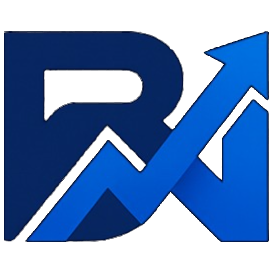
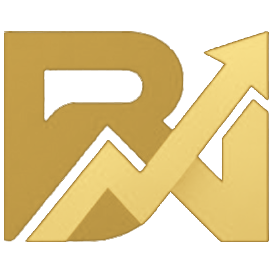
color changes

diff --git a/src/pages/auth/Login/Login.scss b/src/pages/auth/Login/Login.scss
@@ -75,7 +75,10 @@ body.login-no-scroll {
     justify-content: flex-end;
     padding: 2.5rem;
     overflow: hidden;
-    background: linear-gradient(155deg, #1e1b4b 0%, #312e81 42%, #0f766e 100%);
+    background:
+        radial-gradient(100% 70% at 10% 15%, rgba(201, 162, 75, 0.22), transparent 55%),
+        radial-gradient(90% 60% at 90% 85%, rgba(156, 122, 48, 0.16), transparent 50%),
+        linear-gradient(155deg, #141416 0%, #1f1f23 40%, #2a2213 100%);
     color: #fff;
 }
 
@@ -97,8 +100,8 @@ body.login-no-scroll {
         height: 140px;
         left: 8%;
         top: 12%;
-        background: radial-gradient(circle at 30% 28%, #fbcfe8, #db2777 70%);
-        box-shadow: 16px 20px 0 rgba(0, 0, 0, 0.18);
+        background: radial-gradient(circle at 30% 28%, #fef3c7, #c9a24b 70%);
+        box-shadow: 16px 20px 0 rgba(0, 0, 0, 0.28);
     }
 
     &--gold {
@@ -106,8 +109,8 @@ body.login-no-scroll {
         height: 88px;
         right: 14%;
         top: 18%;
-        background: radial-gradient(circle at 30% 28%, #fde68a, #f59e0b 70%);
-        box-shadow: 12px 14px 0 rgba(0, 0, 0, 0.16);
+        background: radial-gradient(circle at 30% 28%, #fef08a, #dec27a 50%, #9c7a30 85%);
+        box-shadow: 12px 14px 0 rgba(0, 0, 0, 0.24);
         animation-delay: -2s;
     }
 
@@ -116,8 +119,8 @@ body.login-no-scroll {
         height: 160px;
         right: -20px;
         bottom: 18%;
-        background: radial-gradient(circle at 30% 28%, #a5f3fc, #0891b2 70%);
-        box-shadow: 18px 22px 0 rgba(0, 0, 0, 0.16);
+        background: radial-gradient(circle at 30% 28%, #fbf8ef, #dec27a 60%, #7d6127 100%);
+        box-shadow: 18px 22px 0 rgba(0, 0, 0, 0.3);
         animation-delay: -3.5s;
     }
 
@@ -126,8 +129,8 @@ body.login-no-scroll {
         height: 70px;
         left: 18%;
         bottom: 28%;
-        background: radial-gradient(circle at 30% 28%, #ddd6fe, #7c3aed 70%);
-        box-shadow: 10px 12px 0 rgba(0, 0, 0, 0.16);
+        background: radial-gradient(circle at 30% 28%, #f5edd5, #b48a35 70%);
+        box-shadow: 10px 12px 0 rgba(0, 0, 0, 0.22);
         animation-delay: -1s;
     }
 }
@@ -150,11 +153,12 @@ body.login-no-scroll {
     height: 130px;
     margin: 0 auto;
     border-radius: 28px;
-    background: linear-gradient(160deg, #334155, #0f172a 60%);
-    border: 4px solid #1e293b;
+    background: linear-gradient(160deg, #2c2925, #141416 60%);
+    border: 4px solid rgba(201, 162, 75, 0.4);
     box-shadow:
-        18px 22px 0 rgba(15, 23, 42, 0.35),
-        inset 0 2px 0 rgba(255, 255, 255, 0.18);
+        18px 22px 0 rgba(0, 0, 0, 0.45),
+        inset 0 2px 0 rgba(254, 240, 138, 0.35),
+        0 0 28px rgba(201, 162, 75, 0.18);
     transform: translateZ(40px);
 }
 
@@ -171,15 +175,15 @@ body.login-no-scroll {
     width: 42px;
     height: 22px;
     border-radius: 8px;
-    background: linear-gradient(180deg, #f8fafc, #cbd5e1);
-    box-shadow: 0 4px 0 #64748b;
+    background: linear-gradient(180deg, #fef9c3, #dec27a);
+    box-shadow: 0 4px 0 #7d6127;
 }
 
 .cam-hotshoe {
     width: 36px;
     height: 14px;
     border-radius: 6px;
-    background: #475569;
+    background: #45403a;
 }
 
 .cam-face {
@@ -195,21 +199,21 @@ body.login-no-scroll {
     width: 86px;
     height: 86px;
     border-radius: 50%;
-    background: #020617;
+    background: #0d0c0a;
     box-shadow:
-        inset 0 0 0 6px #1e293b,
-        0 8px 0 rgba(0, 0, 0, 0.25);
+        inset 0 0 0 6px rgba(201, 162, 75, 0.45),
+        0 8px 0 rgba(0, 0, 0, 0.35);
 }
 
 .lens-ring {
     position: absolute;
     inset: 10px;
     border-radius: 50%;
-    border: 2px solid rgba(148, 163, 184, 0.45);
+    border: 2px solid rgba(222, 194, 122, 0.55);
 
     &--mid {
         inset: 20px;
-        border-color: rgba(45, 212, 191, 0.55);
+        border-color: rgba(201, 162, 75, 0.85);
         animation: lens-spin 10s linear infinite;
     }
 }
@@ -218,8 +222,8 @@ body.login-no-scroll {
     position: absolute;
     inset: 28px;
     border-radius: 50%;
-    background: radial-gradient(circle at 35% 30%, #67e8f9, #0e7490 55%, #042f2e);
-    box-shadow: inset 0 0 12px rgba(0, 0, 0, 0.45);
+    background: radial-gradient(circle at 35% 30%, #fef08a, #c9a24b 55%, #3a2e12);
+    box-shadow: inset 0 0 12px rgba(0, 0, 0, 0.6);
 }
 
 .cam-grip {
@@ -227,8 +231,9 @@ body.login-no-scroll {
     width: 46px;
     height: 70px;
     border-radius: 14px;
-    background: linear-gradient(180deg, #475569, #1e293b);
-    box-shadow: inset 0 1px 0 rgba(255, 255, 255, 0.15);
+    background: linear-gradient(180deg, #38342f, #1c1b19);
+    border: 1px solid rgba(201, 162, 75, 0.25);
+    box-shadow: inset 0 1px 0 rgba(254, 240, 138, 0.2);
 }
 
 .cam-shadow {
@@ -238,7 +243,7 @@ body.login-no-scroll {
     bottom: -8px;
     height: 22px;
     border-radius: 50%;
-    background: rgba(0, 0, 0, 0.28);
+    background: rgba(0, 0, 0, 0.38);
     filter: blur(10px);
 }
 
@@ -248,15 +253,15 @@ body.login-no-scroll {
     padding: 8px 8px 18px;
     border-radius: 8px;
     background: #fff;
-    box-shadow: 10px 14px 0 rgba(0, 0, 0, 0.18);
+    box-shadow: 10px 14px 0 rgba(0, 0, 0, 0.22);
 
     &__photo {
         height: 68px;
         border-radius: 4px;
-        background: linear-gradient(135deg, #fb7185, #f59e0b);
+        background: linear-gradient(135deg, #dec27a, #9c7a30);
 
         &--alt {
-            background: linear-gradient(135deg, #34d399, #38bdf8);
+            background: linear-gradient(135deg, #fef08a, #c9a24b);
         }
     }
 
@@ -293,7 +298,7 @@ body.login-no-scroll {
     font-weight: 800;
     letter-spacing: 0.18em;
     text-transform: uppercase;
-    color: #5eead4;
+    color: #dec27a;
 }
 
 .split-login__headline {
@@ -354,21 +359,21 @@ body.login-no-scroll {
     font-weight: 700;
     letter-spacing: 0.16em;
     text-transform: uppercase;
-    color: #0d9488;
+    color: #c9a24b;
 }
 
 .split-login__welcome {
     margin: 0 0 0.35rem;
     font-size: 1.65rem;
     font-weight: 800;
-    color: #0f172a;
+    color: #1c1b19;
     letter-spacing: -0.03em;
 }
 
 .split-login__hint {
     margin: 0 0 1.35rem;
     font-size: 0.92rem;
-    color: #64748b;
+    color: #7a7366;
 }
 
 .split-login__error {
@@ -398,7 +403,7 @@ body.login-no-scroll {
     font-weight: 700;
     letter-spacing: 0.08em;
     text-transform: uppercase;
-    color: #475569;
+    color: #5c564b;
 }
 
 .split-login__input-wrap {
@@ -411,7 +416,7 @@ body.login-no-scroll {
     left: 0.9rem;
     transform: translateY(-50%);
     pointer-events: none;
-    color: #0d9488;
+    color: #c9a24b;
 }
 
 .split-login__input {
@@ -420,9 +425,9 @@ body.login-no-scroll {
     padding: 0.85rem 0.9rem 0.85rem 2.55rem;
     font-size: 0.95rem;
     font-weight: 600;
-    color: #0f172a;
-    background: #f8fafc;
-    border: 1.5px solid #e2e8f0;
+    color: #1c1b19;
+    background: #fdfcf9;
+    border: 1.5px solid #e7e2d8;
     border-radius: 0.85rem;
     transition:
         border-color 0.2s ease,
@@ -430,15 +435,15 @@ body.login-no-scroll {
         background 0.2s ease;
 
     &::placeholder {
-        color: #94a3b8;
+        color: #a8a093;
         font-weight: 500;
     }
 
     &:focus {
         outline: none;
         background: #fff;
-        border-color: #2dd4bf;
-        box-shadow: 0 0 0 3px rgba(45, 212, 191, 0.18);
+        border-color: #c9a24b;
+        box-shadow: 0 0 0 3px rgba(201, 162, 75, 0.22);
     }
 
     &--password {
@@ -461,11 +466,11 @@ body.login-no-scroll {
     padding: 0.25rem;
     border: none;
     background: transparent;
-    color: #64748b;
+    color: #7a7366;
     cursor: pointer;
 
     &:hover {
-        color: #0d9488;
+        color: #c9a24b;
     }
 }
 
@@ -490,17 +495,19 @@ body.login-no-scroll {
     font-weight: 800;
     letter-spacing: 0.08em;
     text-transform: uppercase;
-    color: #042f2e;
-    background: linear-gradient(180deg, #5eead4 0%, #14b8a6 100%);
-    box-shadow: 0 10px 24px rgba(20, 184, 166, 0.28);
+    color: #1c1b19;
+    background: linear-gradient(180deg, #dec27a 0%, #c9a24b 60%, #b38b32 100%);
+    box-shadow: 0 10px 24px rgba(201, 162, 75, 0.32);
     cursor: pointer;
     transition:
         transform 0.15s ease,
-        box-shadow 0.15s ease;
+        box-shadow 0.15s ease,
+        background 0.15s ease;
 
     &:hover:not(:disabled) {
         transform: translateY(-1px);
-        box-shadow: 0 14px 28px rgba(20, 184, 166, 0.35);
+        background: linear-gradient(180deg, #e5cf92 0%, #d4b161 60%, #c9a24b 100%);
+        box-shadow: 0 14px 28px rgba(201, 162, 75, 0.42);
     }
 
     &:disabled {
@@ -527,12 +534,12 @@ body.login-no-scroll {
 .split-login__link {
     font-size: 0.85rem;
     font-weight: 700;
-    color: #0d9488;
+    color: #9c7a30;
     text-decoration: none;
 
     &:hover {
         text-decoration: underline;
-        color: #0f766e;
+        color: #7d6127;
     }
 }
 
@@ -548,11 +555,11 @@ body.login-no-scroll {
     font-weight: 700;
     letter-spacing: 0.06em;
     text-transform: uppercase;
-    color: #64748b;
+    color: #7a7366;
     cursor: pointer;
 
     &:hover {
-        color: #0d9488;
+        color: #9c7a30;
     }
 }
 

diff --git a/src/lib/brand.ts b/src/lib/brand.ts
@@ -1,5 +1,5 @@
-import brandEmblem from '../assets/buildnexdev-mark.png';
-import brandEmblemLight from '../assets/buildnexdev-mark.png';
+import brandEmblem from '../assets/buildnexdev-mark-gold.png';
+import brandEmblemLight from '../assets/buildnexdev-mark-gold-light.png';
 
 export const BRAND_NAME = 'Buildnex Studio';
 export const BRAND_TAGLINE = 'Building Digital Growth';

diff --git a/src/styles/auth-card.scss b/src/styles/auth-card.scss
@@ -28,8 +28,8 @@
     }
 
     .form-control:focus {
-        border-color: #2dd4bf;
-        box-shadow: 0 0 0 0.2rem rgba(201, 162, 75, 0.2);
+        border-color: #c9a24b;
+        box-shadow: 0 0 0 0.2rem rgba(201, 162, 75, 0.25);
     }
 
     .form-label {

diff --git a/src/pages/auth/ForgetPassword/ForgotPassword.scss b/src/pages/auth/ForgetPassword/ForgotPassword.scss
@@ -15,7 +15,7 @@
         margin-bottom: 1.5rem;
 
         svg {
-            color: #5eead4;
+            color: #c9a24b;
         }
 
         p {
